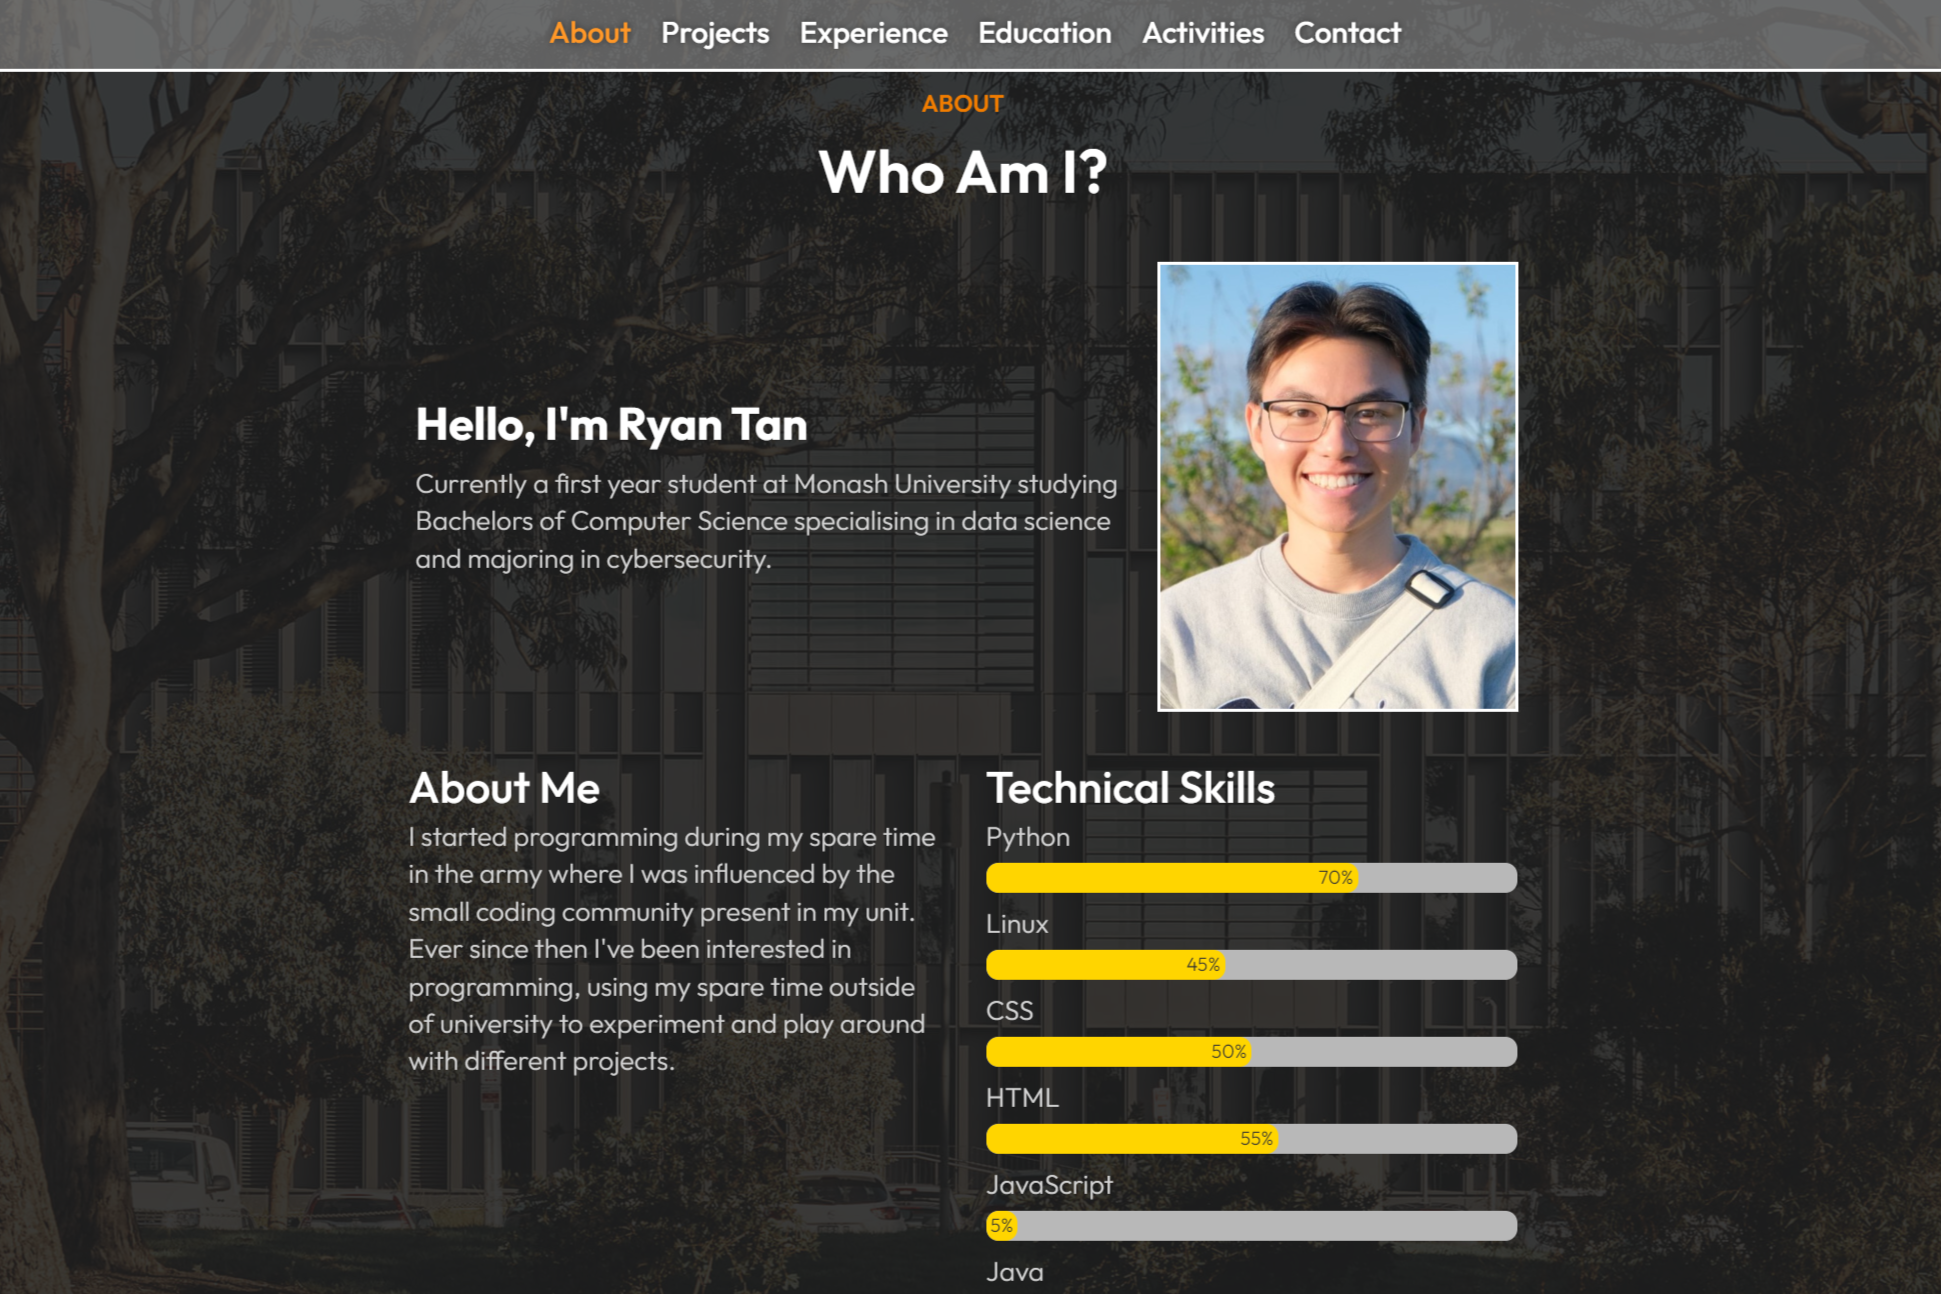
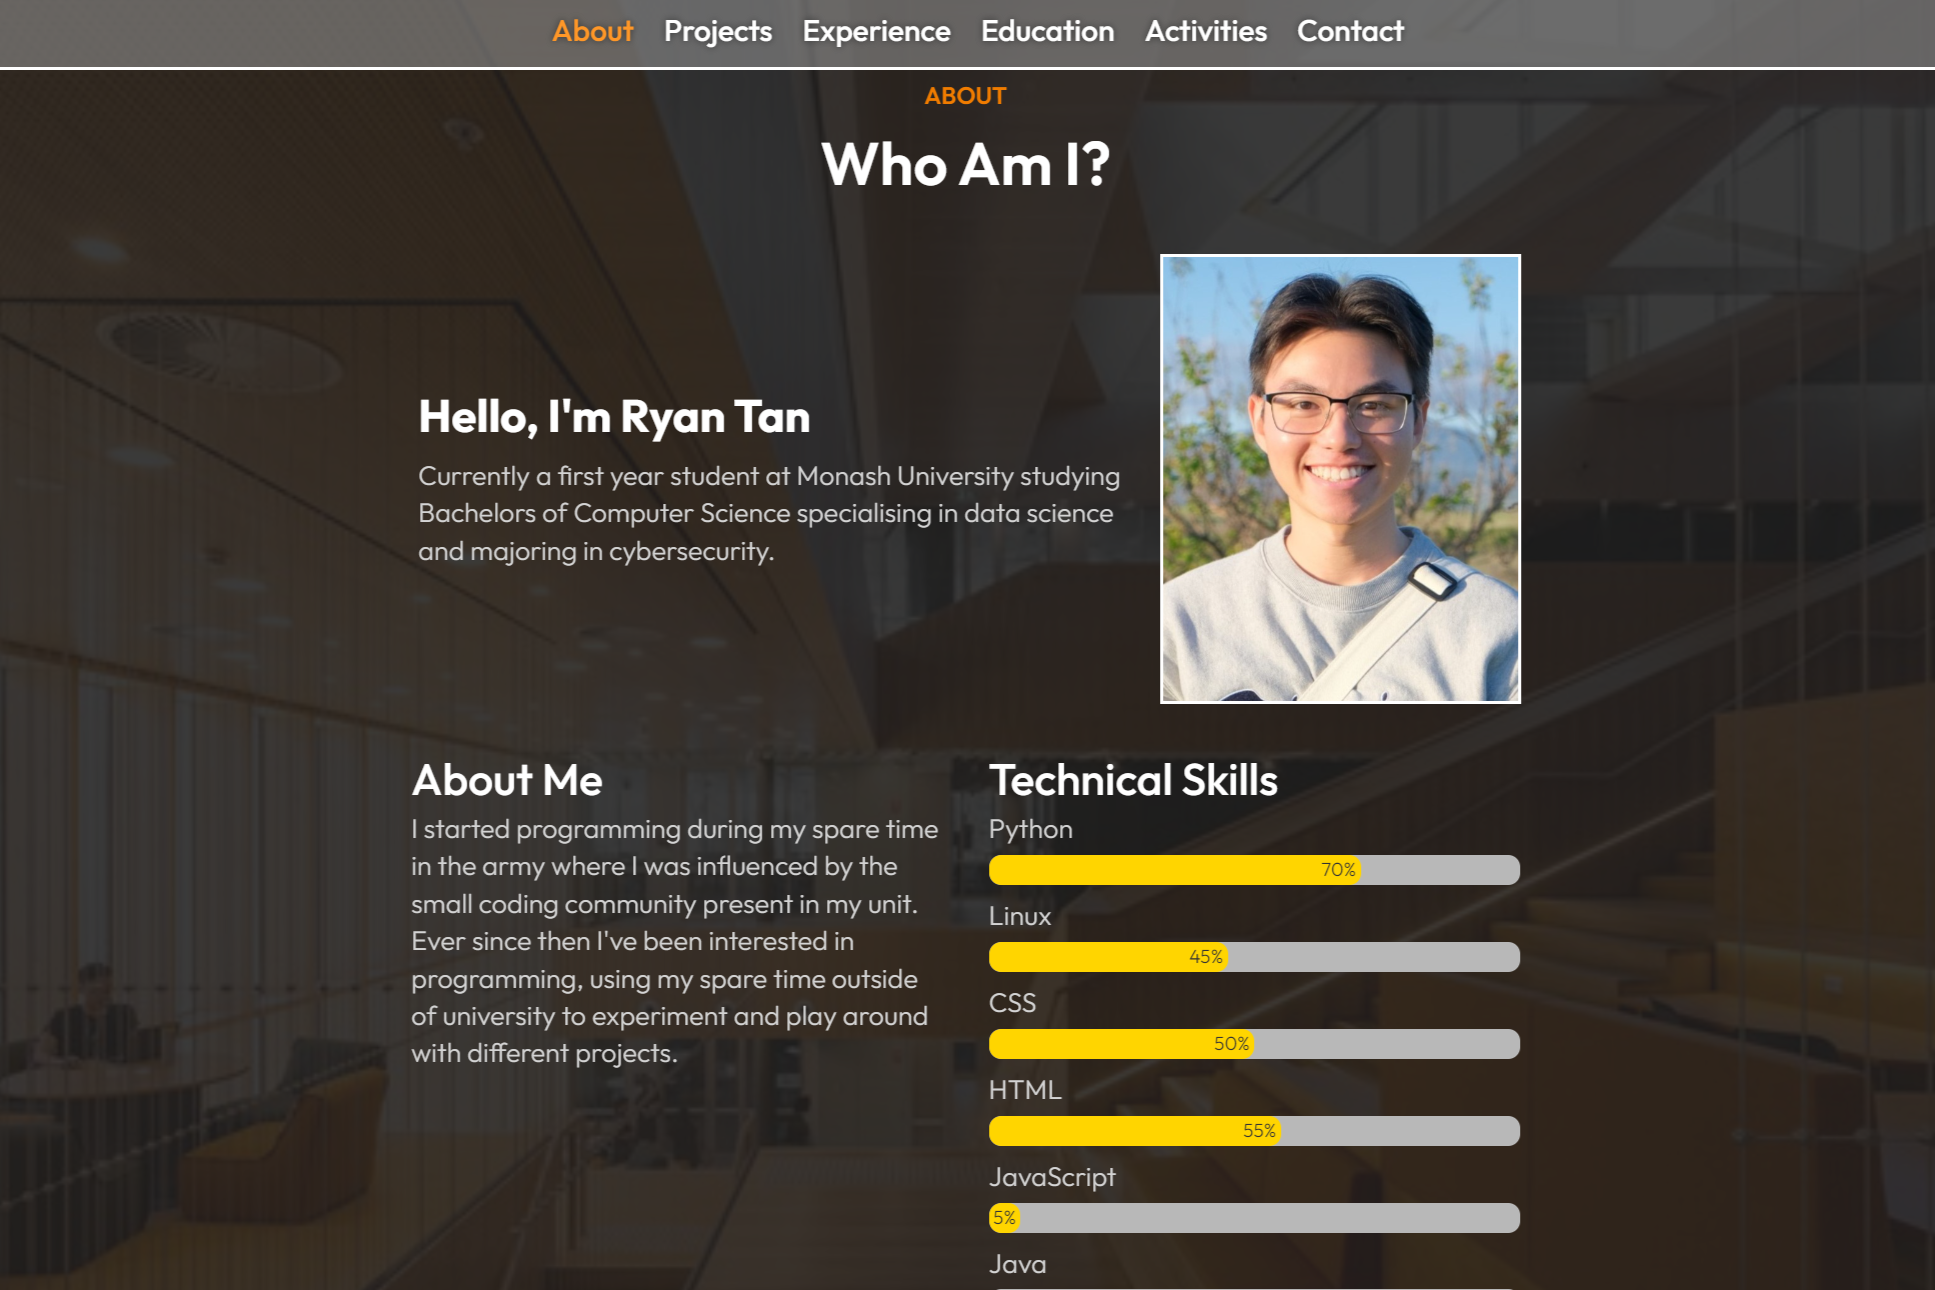
change background

diff --git a/style.css b/style.css
@@ -128,10 +128,9 @@ height: 120%; */
 .beginning-background {
     position: absolute;
     top: 0;
-    /* left: 0; */
     width: 100%;
     height: 100%;
-    background-image: url('images/woodside.jpg'); 
+    background-image: url('images/ltb.jpg'); 
     background-size: cover;
     background-position: center;
     background-repeat: no-repeat;
